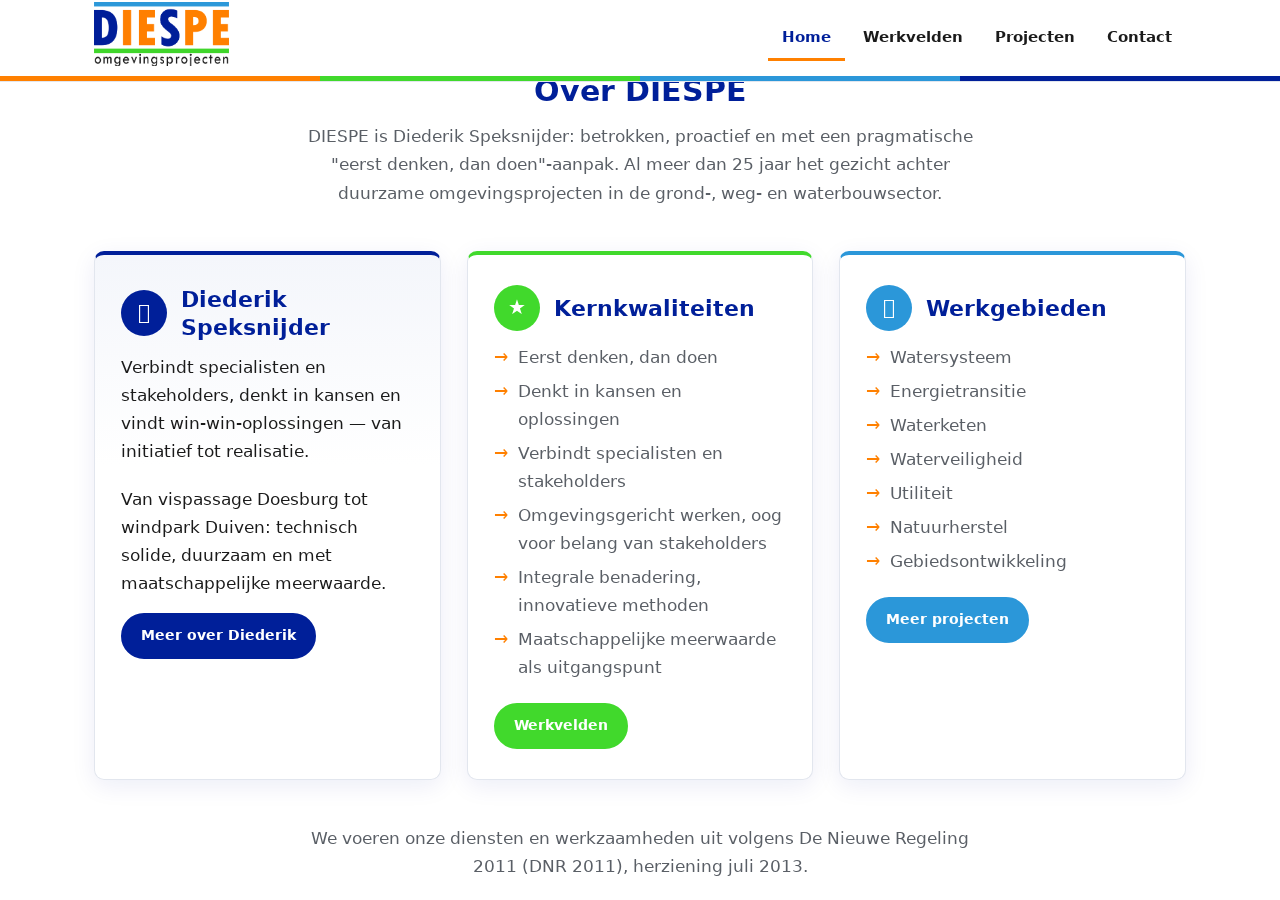
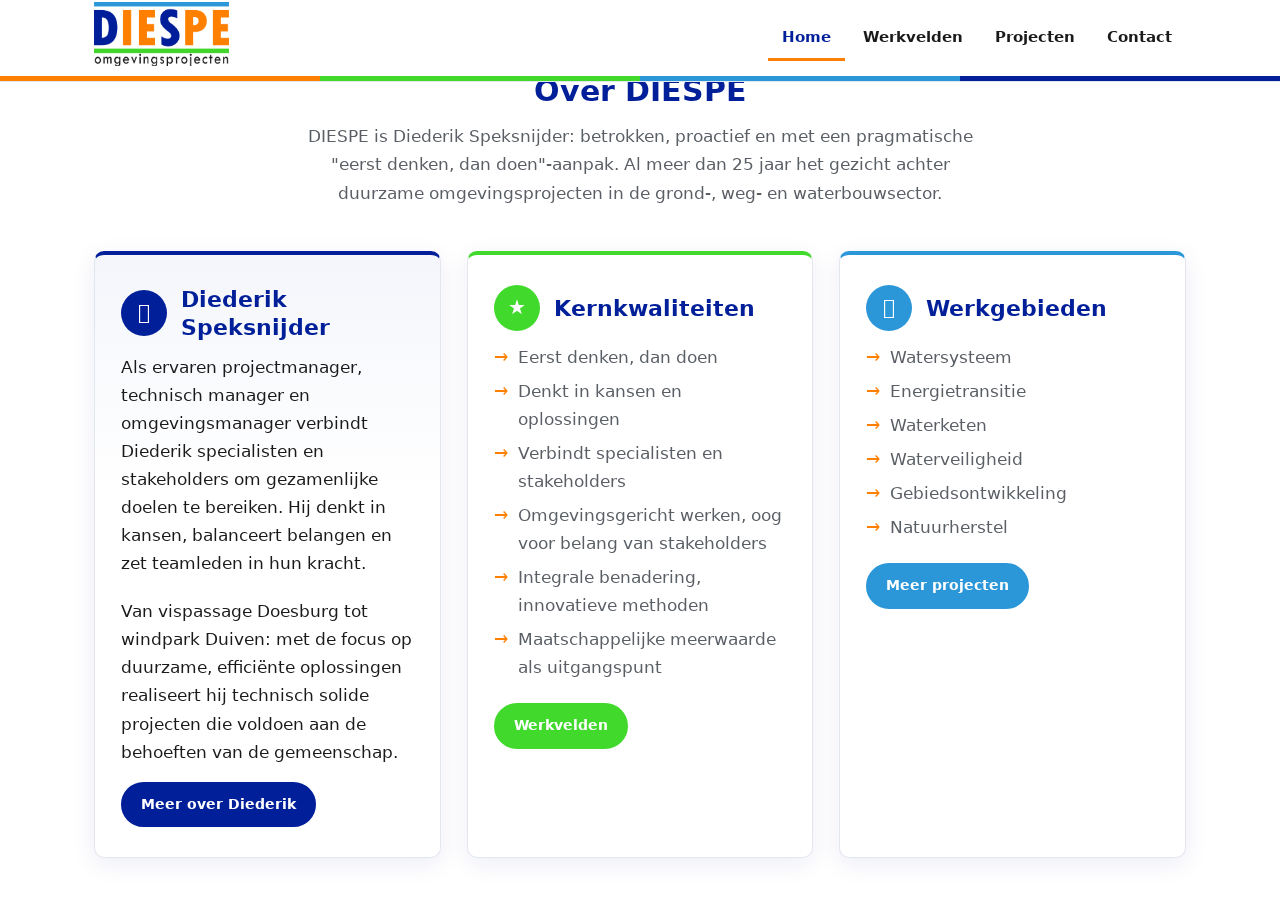
Diederik-tekst verlengen, categorie Utiliteit naar Gebiedsontwikkeling, inleidende tekst projectenpagina

diff --git a/preview/projecten.html b/preview/projecten.html
@@ -29,8 +29,8 @@
 <div class="container section">
   <header class="entry-header">
     <h1>Projecten</h1>
-    <p class="section-intro" style="margin-bottom:0;">Een selectie van de opgaven waaraan wij werken.</p>
-    <p class="project-meta" style="margin-top:14px;">Watersysteem (25) &nbsp;&middot;&nbsp; Energietransitie (7) &nbsp;&middot;&nbsp; Waterketen (10) &nbsp;&middot;&nbsp; Waterveiligheid (2) &nbsp;&middot;&nbsp; Utiliteit (1)</p>
+    <p class="section-intro" style="margin-bottom:0;">Op deze pagina een selectie van de projecten waaraan DIESPE heeft bijgedragen &mdash; van watersysteem- en energieprojecten tot waterveiligheid en gebiedsontwikkeling. Wilt u meer weten over een specifiek project of over de aanpak? Neem gerust contact op.</p>
+    <p class="project-meta" style="margin-top:14px;">Watersysteem (25) &nbsp;&middot;&nbsp; Energietransitie (7) &nbsp;&middot;&nbsp; Waterketen (10) &nbsp;&middot;&nbsp; Waterveiligheid (2) &nbsp;&middot;&nbsp; Gebiedsontwikkeling (1)</p>
   </header>
   <div class="project-grid" style="margin-top:36px;">
       <article class="project-card">
@@ -390,9 +390,9 @@ projectomvang €24 milj.&hellip;</p>
         </div>
       </article>
       <article class="project-card">
-        <div class="project-thumb"><img src="../assets/img/projecten/utiliteit.png" alt="Utiliteit" loading="lazy"></div>
+        <div class="project-thumb"><img src="gebiedsontwikkeling.png" alt="Utiliteit" loading="lazy"></div>
         <div class="project-body">
-          <p class="project-meta">Utiliteit</p>
+          <p class="project-meta">Gebiedsontwikkeling</p>
           <h3><a href="#">FCCL BMX-accommodatie te Lichtenvoorde</a></h3>
           <p>Realisatie van een nieuwe BMX-accommodatie voor de vereniging Fietscrossclub Lichtenvoorde.&hellip;</p>
         </div>

diff --git a/preview/index.html b/preview/index.html
@@ -152,8 +152,8 @@
     <div class="grid-3">
       <div class="card card--diederik">
         <div class="card-header"><span class="card-icon" aria-hidden="true">&#128100;</span><h3>Diederik Speksnijder</h3></div>
-        <p>Verbindt specialisten en stakeholders, denkt in kansen en vindt win-win-oplossingen &mdash; van initiatief tot realisatie.</p>
-        <p>Van vispassage Doesburg tot windpark Duiven: technisch solide, duurzaam en met maatschappelijke meerwaarde.</p>
+        <p>Als ervaren projectmanager, technisch manager en omgevingsmanager verbindt Diederik specialisten en stakeholders om gezamenlijke doelen te bereiken. Hij denkt in kansen, balanceert belangen en zet teamleden in hun kracht.</p>
+        <p>Van vispassage Doesburg tot windpark Duiven: met de focus op duurzame, effici&euml;nte oplossingen realiseert hij technisch solide projecten die voldoen aan de behoeften van de gemeenschap.</p>
         <a class="btn btn--kleur1 card-more" href="#">Meer over Diederik</a>
       </div>
       <div class="card">
@@ -175,9 +175,8 @@
           <li>Energietransitie</li>
           <li>Waterketen</li>
           <li>Waterveiligheid</li>
-          <li>Utiliteit</li>
-          <li>Natuurherstel</li>
           <li>Gebiedsontwikkeling</li>
+          <li>Natuurherstel</li>
         </ul>
         <a class="btn btn--kleur3 card-more" href="#">Meer projecten</a>
       </div>

diff --git a/front-page.php b/front-page.php
@@ -42,8 +42,8 @@ $kaarten = array(
 
 $over_intro = diespe_home_text( 'over_intro', __( 'DIESPE is Diederik Speksnijder: betrokken, proactief en met een pragmatische "eerst denken, dan doen"-aanpak. Al meer dan 25 jaar het gezicht achter duurzame omgevingsprojecten in de grond-, weg- en waterbouwsector.', 'diespe' ) );
 $over_naam  = diespe_home_text( 'over_naam', __( 'Diederik Speksnijder', 'diespe' ) );
-$over_tekst1 = diespe_home_text( 'over_tekst1', __( 'Verbindt specialisten en stakeholders, denkt in kansen en vindt win-win-oplossingen — van initiatief tot realisatie.', 'diespe' ) );
-$over_tekst2 = diespe_home_text( 'over_tekst2', __( 'Van vispassage Doesburg tot windpark Duiven: technisch solide, duurzaam en met maatschappelijke meerwaarde.', 'diespe' ) );
+$over_tekst1 = diespe_home_text( 'over_tekst1', __( 'Als ervaren projectmanager, technisch manager en omgevingsmanager verbindt Diederik specialisten en stakeholders om gezamenlijke doelen te bereiken. Hij denkt in kansen, balanceert belangen en zet teamleden in hun kracht.', 'diespe' ) );
+$over_tekst2 = diespe_home_text( 'over_tekst2', __( 'Van vispassage Doesburg tot windpark Duiven: met de focus op duurzame, effici&euml;nte oplossingen realiseert hij technisch solide projecten die voldoen aan de behoeften van de gemeenschap.', 'diespe' ) );
 ?>
 
 <section class="hero">
@@ -195,9 +195,8 @@ $over_tekst2 = diespe_home_text( 'over_tekst2', __( 'Van vispassage Doesburg tot
 					<li><?php esc_html_e( 'Energietransitie', 'diespe' ); ?></li>
 					<li><?php esc_html_e( 'Waterketen', 'diespe' ); ?></li>
 					<li><?php esc_html_e( 'Waterveiligheid', 'diespe' ); ?></li>
-					<li><?php esc_html_e( 'Utiliteit', 'diespe' ); ?></li>
-					<li><?php esc_html_e( 'Natuurherstel', 'diespe' ); ?></li>
 					<li><?php esc_html_e( 'Gebiedsontwikkeling', 'diespe' ); ?></li>
+					<li><?php esc_html_e( 'Natuurherstel', 'diespe' ); ?></li>
 				</ul>
 				<a class="btn btn--kleur3 card-more" href="<?php echo esc_url( get_post_type_archive_link( 'diespe_project' ) ); ?>"><?php esc_html_e( 'Meer projecten', 'diespe' ); ?></a>
 			</div>

diff --git a/template-parts/project-card.php b/template-parts/project-card.php
@@ -10,7 +10,7 @@ $terms = get_the_term_list( get_the_ID(), 'diespe_projecttype', '', ', ' );
 $cat_slugs = wp_get_post_terms( get_the_ID(), 'diespe_projecttype', array( 'fields' => 'slugs' ) );
 $cat_slug = $cat_slugs ? $cat_slugs[0] : '';
 $fallback = '';
-foreach ( array( $cat_slug, 'utiliteit' ) as $slug ) {
+foreach ( array( $cat_slug, 'gebiedsontwikkeling' ) as $slug ) {
 	if ( $slug && file_exists( get_template_directory() . '/assets/img/projecten/' . $slug . '.png' ) ) {
 		$fallback = get_template_directory_uri() . '/assets/img/projecten/' . $slug . '.png';
 		break;
